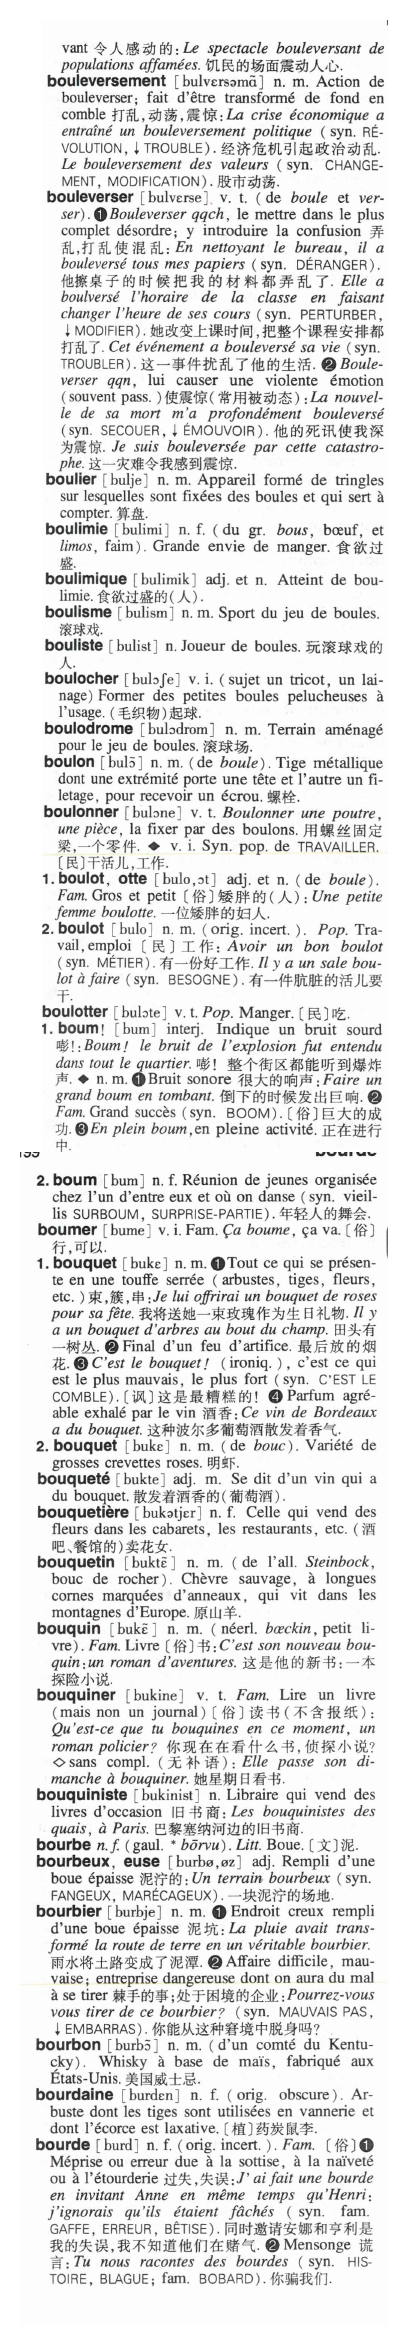
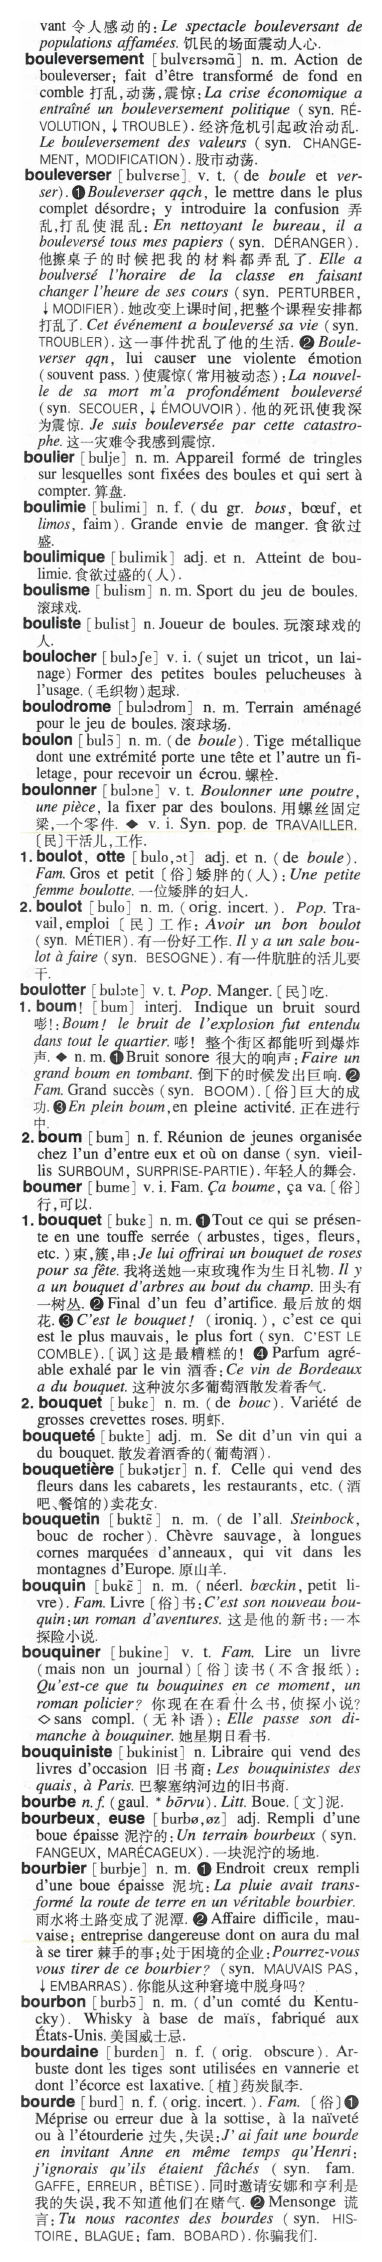
199

diff --git a/larousse/croissant.py b/larousse/croissant.py
@@ -43,13 +43,13 @@ def odd_pic(p_name):
     im = Image.open(p_name)
     w,h = im.size 
     top = 60
-    #top = 66
+    top = 66
 
     right = 53
-    #right = 60
+    right = 55
 
     m = (w-right)/2 + w/70 + 10
-    m = (w-right)/2 + w/70 + 14
+    #m = (w-right)/2 + w/70 + 14
 
     print(im.size)
     
@@ -82,4 +82,4 @@ def cut(i):
     else:
         even_pic(p_name)
 
-cut(200)
+cut(199)
